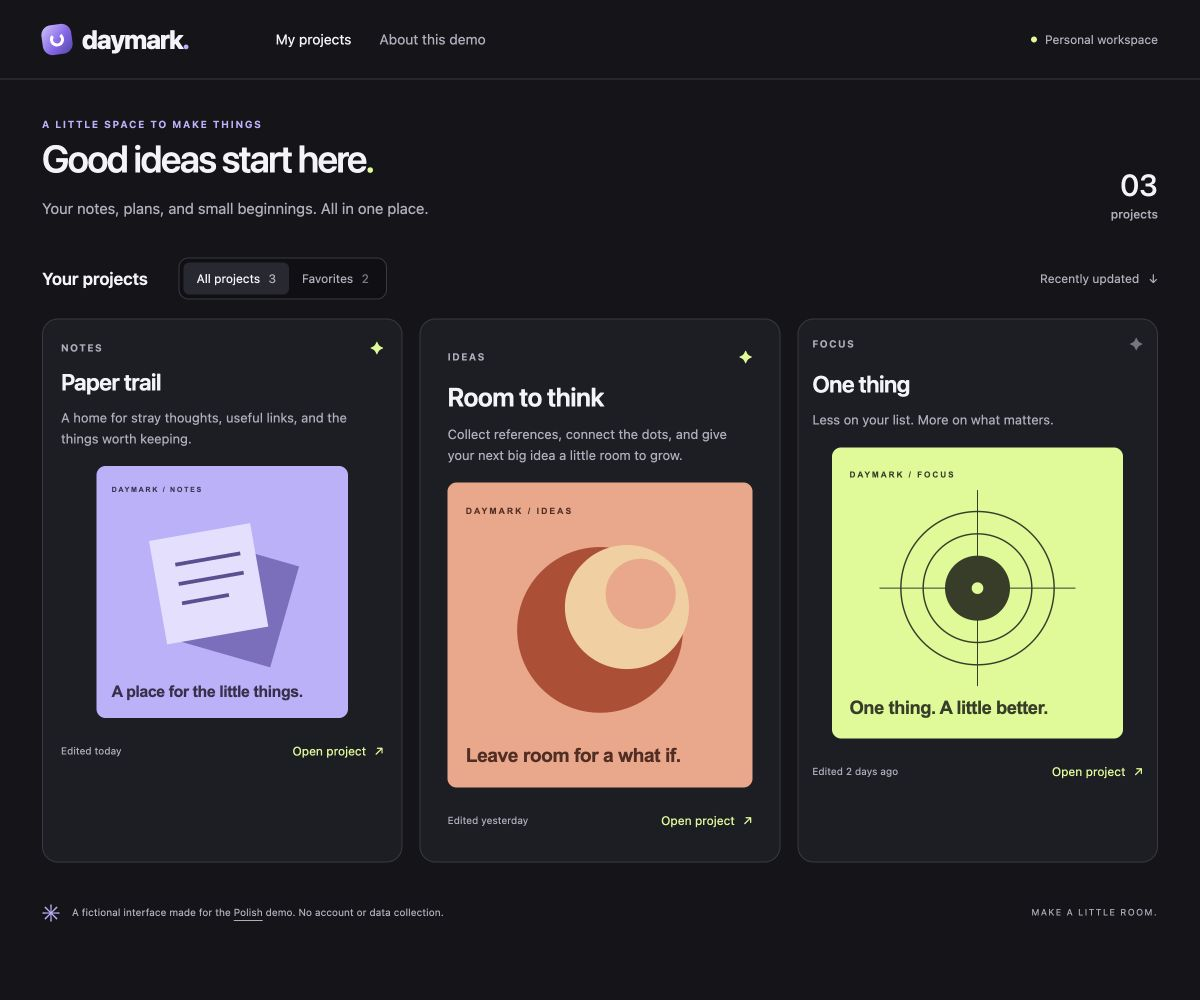
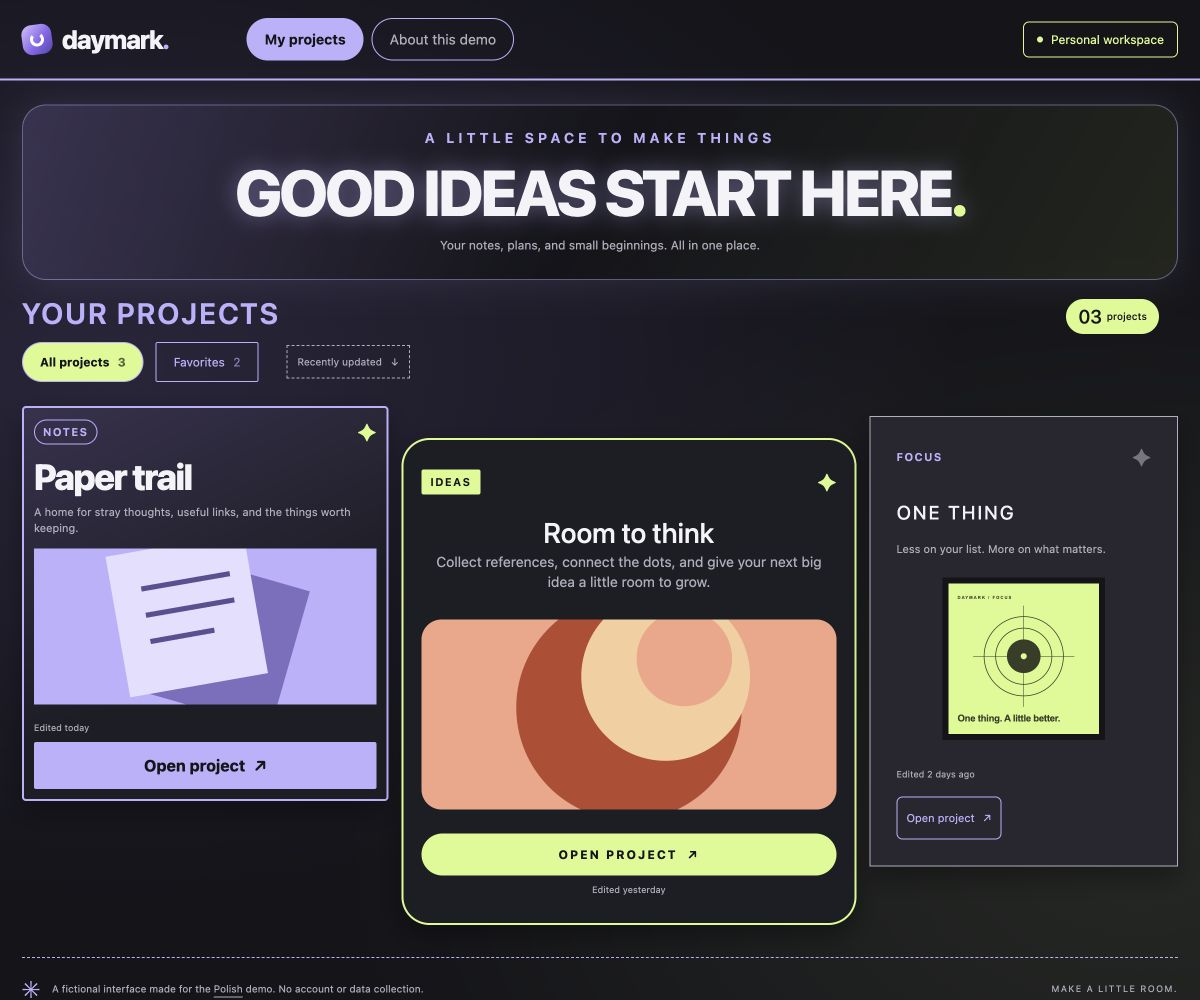
Strengthen the Polish demo with a rough starter and mobile comparison

diff --git a/examples/daymark/before.css b/examples/daymark/before.css
@@ -1,28 +1,61 @@
-/* Starter fixture: deliberately inconsistent spacing and media sizing. */
-.site-header { padding: 24px 42px; gap: 87px; }
-main { padding: 39px 42px 20px; }
-.intro { margin-bottom: 37px; }
-.eyebrow { margin-bottom: 7px; }
-h1 { font-size: 38px; font-weight: 550; margin-bottom: 17px; }
-.toolbar { gap: 31px; margin-bottom: 19px; }
-.cards { gap: 17px; }
-.card { padding: 18px; }
-.card:nth-child(2) { padding: 27px; }
-.card:nth-child(3) { padding: 14px; }
-.card h3 { font-size: 23px; font-weight: 600; margin: 11px 0 12px; letter-spacing: -.5px; }
-.card:nth-child(2) h3 { font-size: 26px; margin-top: 15px; }
-.card:nth-child(3) h3 { margin-top: 17px; }
-.description { margin-bottom: 17px; }
-.project-art { width: 78%; margin: 0 auto; }
-.card:nth-child(2) .project-art { width: 100%; }
-.card:nth-child(3) .project-art { width: 88%; }
-.card-footer { margin-top: 19px; }
-main > footer { margin-top: 31px; }
+/* Deliberately rough demo starter, not a production app or benchmark.
+   Seeded problems: competing emphasis, unrelated component styles, cropped
+   square artwork, a drifting grid, and desktop sizing on narrow screens. */
+body { background: radial-gradient(ellipse at 10% 35%, #7963b837, transparent 55%), radial-gradient(ellipse at 95% 80%, #d9fb8c16, transparent 50%); }
+.site-header { padding: 18px 22px; gap: 78px; border-bottom: 2px solid var(--violet); }
+nav { gap: 8px; }
+nav a { padding: 12px 17px; border: 1px solid var(--violet); border-radius: 24px; }
+nav a[aria-current] { color: var(--ink); background: var(--violet); font-weight: 700; }
+.workspace-label { padding: 10px 13px; border: 1px solid var(--lime); border-radius: 6px; color: var(--lime); }
+main { padding: 24px 22px 20px; }
+.intro { display: block; position: relative; padding: 24px 20px; margin-bottom: 12px; text-align: center; border: 1px solid #bcb1ff70; border-radius: 24px; background: linear-gradient(120deg, #65568e60, #141419, #46532845); box-shadow: 0 0 36px #bcb1ff21; }
+.eyebrow { margin-bottom: 10px; font-size: 14px; letter-spacing: 4px; }
+h1 { font-size: 64px; font-weight: 800; letter-spacing: -3px; text-transform: uppercase; margin-bottom: 8px; text-shadow: 0 0 22px #bcb1ff70; }
+.lede { font-size: 12px; }
+.project-total { position: absolute; right: 18px; bottom: -55px; display: flex; align-items: center; gap: 5px; padding: 7px 12px; border-radius: 20px; background: var(--lime); color: var(--ink); font-size: 19px; }
+.project-total span { color: var(--ink); margin: 0; font-size: 10px; }
+.toolbar { gap: 12px; margin: 16px 0 24px; flex-wrap: wrap; }
+.toolbar > h2 { width: 100%; font-size: 29px; text-transform: uppercase; letter-spacing: 2px; color: var(--violet); }
+.filters { gap: 12px; padding: 0; border: 0; background: transparent; }
+.filters button { padding: 12px 17px; border: 1px solid var(--violet); border-radius: 2px; color: var(--violet); }
+.filters button[aria-pressed="true"] { color: var(--ink); background: var(--lime); border-radius: 22px; font-weight: 750; }
+.sort-label { margin-left: 16px; padding: 10px; border: 1px dashed var(--muted); font-size: 10px; }
+.cards { grid-template-columns: .95fr 1.18fr .8fr; gap: 13px; align-items: start; }
+.card { padding: 10px; border: 2px solid var(--violet); border-radius: 4px; background: linear-gradient(155deg, #39314f, var(--surface) 60%); box-shadow: 0 12px 26px #0005; }
+.card:nth-child(2) { padding: 28px 18px; margin-top: 32px; border-color: var(--lime); border-radius: 28px; background: var(--surface); text-align: center; }
+.card:nth-child(3) { padding: 26px; margin-top: 10px; border: 1px solid var(--muted); border-radius: 0; background: #292630; }
+.category { padding: 5px 8px; border: 1px solid currentColor; border-radius: 20px; color: var(--violet); font-size: 11px; }
+.card:nth-child(2) .category { background: var(--lime); border-color: var(--lime); color: var(--ink); border-radius: 2px; }
+.card:nth-child(3) .category { padding: 0; border: 0; }
+.favorite { font-size: 24px; }
+.card h3 { font-size: 36px; font-weight: 800; margin: 9px 0 7px; letter-spacing: -1.5px; }
+.card:nth-child(2) h3 { font-size: 28px; font-weight: 500; margin: 20px 0 3px; letter-spacing: 0; }
+.card:nth-child(3) h3 { font-size: 19px; font-weight: 450; text-transform: uppercase; letter-spacing: 2px; margin: 30px 0 18px; }
+.description { font-size: 11px; line-height: 1.45; margin-bottom: 12px; }
+.card:nth-child(2) .description { font-size: 14px; margin-bottom: 27px; }
+.card:nth-child(3) .description { margin-bottom: 20px; }
+.project-art { width: 100%; height: 156px; object-fit: cover; border-radius: 0; }
+.card:nth-child(2) .project-art { height: 190px; border-radius: 20px; }
+.card:nth-child(3) .project-art { width: 64%; height: auto; margin: 0 auto; border: 6px solid var(--ink); }
+.card-footer { display: flex; flex-direction: column; align-items: stretch; gap: 9px; margin-top: 18px; }
+.card-footer > span { font-size: 9px; }
+.open-project { padding: 14px 9px; border-radius: 2px; background: var(--violet); color: var(--ink); font-size: 16px; font-weight: 750; }
+.card:nth-child(2) .card-footer { flex-direction: column-reverse; margin-top: 24px; }
+.card:nth-child(2) .open-project { background: var(--lime); border-radius: 24px; text-transform: uppercase; letter-spacing: 2px; font-size: 12px; }
+.card:nth-child(3) .card-footer { margin-top: 29px; align-items: start; gap: 17px; }
+.card:nth-child(3) .open-project { background: transparent; color: var(--violet); border: 1px solid var(--violet); border-radius: 6px; font-size: 11px; font-weight: 400; }
+main > footer { margin-top: 32px; padding: 12px 0; border-top: 1px dashed var(--violet); }
 @media (max-width: 700px) {
-  .site-header { padding: 20px 18px; gap: 20px; }
-  main { padding: 30px 18px 20px; }
-  h1 { font-size: 32px; }
-  .toolbar { flex-wrap: wrap; gap: 17px; }
-  .sort-label { width: 100%; margin: 0; }
-  .cards { gap: 17px; }
+  .site-header { padding: 20px 12px; gap: 12px; }
+  nav a { padding: 8px; font-size: 10px; }
+  main { padding: 18px 12px 20px; }
+  .intro { padding: 24px 12px; }
+  .eyebrow { font-size: 12px; letter-spacing: 2px; }
+  h1 { font-size: 52px; letter-spacing: -2px; }
+  .toolbar { gap: 14px; margin-top: 24px; }
+  .toolbar > h2 { font-size: 25px; }
+  .sort-label { margin: 0; }
+  .cards { grid-template-columns: 1fr; gap: 14px; }
+  .card { min-width: 440px; }
+  .card:nth-child(2), .card:nth-child(3) { margin-top: 0; }
 }

diff --git a/examples/daymark/README.md b/examples/daymark/README.md
@@ -1,15 +1,16 @@
-# Daymark: a real polish pass on a demo fixture
+# Daymark: from rough prototype to polished interface
 
-Daymark is a fictional workspace made specifically for this example. Its starter has deliberately inconsistent card padding, preview sizes, and action placement. It is not a production app or an independent benchmark.
+Daymark is a fictional workspace made specifically for this example. Its starter deliberately combines oversized headings, competing button styles, mismatched cards, cropped illustrations, and mobile overflow. It is not a production app or an independent benchmark.
 
-The before and after images are actual, unretouched browser captures of the included source. The GIF adds labels below those captures and switches from before to after. It shows the result of a real editing pass, not a recording of an agent writing code.
+The before and after images are actual, unretouched browser captures of the included source. The GIF adds labels below those captures and switches from before to after. The starter's defects were expanded for this revision to make the contrast more visible; the finished design is unchanged. This is a constructed demonstration, not a recording of an agent writing code.
 
 ## The request
 
 ```text
-$polish the project grid. Fix inconsistent padding, uneven preview sizes,
-and misaligned action rows. Improve the toolbar and title hierarchy using
-the existing identity. Keep all copy, artwork, links, and behavior intact.
+$polish the whole workspace. Establish a clear heading hierarchy, unify
+controls and card styles, show the complete square artwork, and fix the
+mobile overflow. Keep the approved brand, all copy, artwork, links, and
+behavior intact.
 ```
 
 The [project profile](POLISH.md) sets the constraints. The pass followed the Polish skill's scope, audit, narrow implementation, and rendered verification workflow.
@@ -18,11 +19,19 @@ The [project profile](POLISH.md) sets the constraints. The pass followed the Pol
 
 | Before | After |
 | --- | --- |
-| Different card padding, preview widths, and action positions. | Consistent padding, complete square artwork, and aligned action rows. |
-| [![Daymark before polishing](../../docs/media/before-desktop.jpg)](../../docs/media/before-desktop.jpg) | [![Daymark after polishing](../../docs/media/after-desktop.jpg)](../../docs/media/after-desktop.jpg) |
+| Competing headings, three unrelated card styles, cropped artwork, and drifting actions. | Clear hierarchy, a shared component style, complete illustrations, and aligned actions. |
+| [![Daymark before polishing](../../docs/media/before-desktop.jpg?revision=2)](../../docs/media/before-desktop.jpg?revision=2) | [![Daymark after polishing](../../docs/media/after-desktop.jpg)](../../docs/media/after-desktop.jpg) |
 | [Starter HTML](before.html) · [Starter CSS](before.css) | [Polished HTML](after.html) · [Polished CSS](after.css) |
 
-Both desktop captures use a **1200 × 1000** browser viewport with all three projects visible. The single-column layout was also checked at **390 × 844**: [before mobile](../../docs/media/before-mobile.jpg) and [after mobile](../../docs/media/after-mobile.jpg) are full-page captures at that width.
+Both desktop captures use a **1200 × 1000** browser viewport with all three projects visible.
+
+The mobile comparison uses matching **390 × 844** viewports. The starter's 440px cards spill off the screen; the polished cards fit the available width.
+
+| Before on mobile | After on mobile |
+| --- | --- |
+| [![Starter on a 390px screen: the card and its content extend past the right edge](../../docs/media/before-mobile-viewport.jpg)](../../docs/media/before-mobile-viewport.jpg) | [![Polished layout on the same 390px screen: readable copy and a complete square illustration](../../docs/media/after-mobile-viewport.jpg)](../../docs/media/after-mobile-viewport.jpg) |
+
+Full-page captures: [before](../../docs/media/before-mobile.jpg?revision=2) and [after](../../docs/media/after-mobile.jpg). The before capture includes the content outside the viewport; the matching viewport images above show the visible clipping.
 
 ## What changed
 
@@ -30,13 +39,15 @@ Measured in the desktop browser:
 
 | Check | Before | After |
 | --- | --- | --- |
-| Card padding | 18px / 27px / 14px | 24px for each card |
-| Square preview widths | 251.67px / 304.66px / 290.98px | 302px for each preview |
-| Preview top positions | 466.15px / 482.65px / 447.35px | 494.77px for each preview |
-| Action top positions | 736.82px / 806.31px / 757.34px | 812.77px for each action |
-| Mobile horizontal overflow | None at the tested width | None at the tested width |
+| Card title sizes | 36px / 28px / 19px | 23px for each card |
+| Card padding | 10px / 28px 18px / 26px | 24px for each card |
+| Preview dimensions | 342.38 × 156px / 415.09 × 190px / 162.90 × 162.90px | 302 × 302px for each preview |
+| Artwork framing | First two illustrations cropped; third undersized | All three complete and equally sized |
+| Preview top positions | 548.27px / 619.47px / 577.32px | 494.77px for each preview |
+| Action top positions | 722.27px / 833.47px / 769.22px | 812.77px for each action |
+| Mobile document width at 390px | 452px: 62px of horizontal overflow | 390px: no horizontal overflow |
 
-The fix uses shared spacing tokens and flex layout. `margin-top: auto` aligns the artwork and action rows while letting descriptions grow. The approved square images fill their content width without cropping. The toolbar groups its controls consistently, and the title uses a clearer weight and size within the same typeface.
+The polished stylesheet uses the existing typeface, spacing tokens, and base components. It replaces the competing emphasis and one-off card treatments with a clear heading hierarchy and consistent controls. `margin-top: auto` aligns the artwork and action rows while letting descriptions grow. The approved square images fill their content width without cropping, and the narrow grid fits the screen without hiding overflow.
 
 ## What stayed the same
 
@@ -72,6 +83,6 @@ To try your own pass, copy the starter and ask your assistant to follow `POLISH.
 
 ## Media provenance
 
-The SVG illustrations are original sample assets created for this repository. Captures contain no private application code, customer data, or third-party website content. The animated comparison is 960 × 864, lasts about 4.83 seconds, and plays once. Static alternatives are linked above.
+The SVG illustrations are original sample assets created for this repository. Captures contain no private application code, customer data, or third-party website content. The animated comparison is 960 × 912, lasts about 4.83 seconds, and plays once. Static alternatives are linked above.
 
 The [verification record](verification.json) includes the observed measurements and source/media hashes. The example is covered by the repository's CC BY 4.0 license.

diff --git a/examples/daymark/POLISH.md b/examples/daymark/POLISH.md
@@ -1,8 +1,9 @@
 # Daymark demo profile
 
 Daymark is a fictional project workspace created for a reproducible Polish demo.
-The starter intentionally includes common card-layout inconsistencies. It is not
-a customer project, a production app, or an independent benchmark.
+The starter intentionally includes an overemphasized hero, inconsistent controls,
+cropped artwork, mismatched cards, and horizontal overflow on mobile. It is not a
+customer project, a production app, or an independent benchmark.
 
 ## Preserve
 
@@ -14,15 +15,16 @@ a customer project, a production app, or an independent benchmark.
 
 ## Task
 
-Polish the project grid. Fix inconsistent padding, uneven preview sizes, and
-misaligned action rows. Improve the toolbar and title hierarchy using the existing
-identity. Keep all copy, artwork, links, and behavior intact.
+Polish the whole workspace. Establish a clear heading hierarchy, unify controls
+and card styles, show the complete square artwork, and fix the mobile overflow.
+Keep the approved brand, all copy, artwork, links, and behavior intact.
 
 ## Verification
 
 Serve this directory locally. Inspect the same state at 1200 x 1000 and 390 x 844.
-Compare card padding, artwork dimensions, and action alignment. Check favorite
-filtering, the details dialog, keyboard focus, and narrow-screen overflow.
+Compare heading sizes, card padding, artwork dimensions, and action alignment.
+Check favorite filtering, the details dialog, keyboard focus, and narrow-screen
+overflow. Preserve the starter's seeded defects in the before version.
 
 ## Delivery
 

diff --git a/README.md b/README.md
@@ -8,11 +8,11 @@ It starts with the project's approved brand and design system. A colorful logo, 
 
 ## See a real pass
 
-Actual browser captures of a Polish pass on **Daymark**, a fictional starter with deliberately uneven spacing. The logo, palette, artwork, copy, and interactions stay the same; the layout CSS changes.
+Oversized headings, mismatched controls, cropped artwork, and a broken mobile grid become one coherent interface. **Daymark is a deliberately rough fictional starter** made for this comparison. These are actual browser captures; the logo, approved palette, artwork, copy, and interactions stay the same.
 
-[![Before and after: Daymark's uneven preview sizes and action rows become a consistent grid while its violet, coral, and lime identity stays intact.](docs/media/polish-demo.gif)](examples/daymark/README.md)
+[![Before and after: a cluttered Daymark prototype with mismatched cards and cropped artwork becomes a clear, consistent interface with complete square illustrations.](docs/media/polish-demo.gif?revision=2)](examples/daymark/README.md)
 
-The GIF plays once in under five seconds. View the [static before](docs/media/before-desktop.jpg) and [static after](docs/media/after-desktop.jpg), or inspect the [source, mobile captures, and measured checks](examples/daymark/README.md).
+The GIF plays once in under five seconds. View the [static before](docs/media/before-desktop.jpg?revision=2) and [static after](docs/media/after-desktop.jpg), or inspect the [source, mobile captures, and measured checks](examples/daymark/README.md).
 
 ## Use it
 
